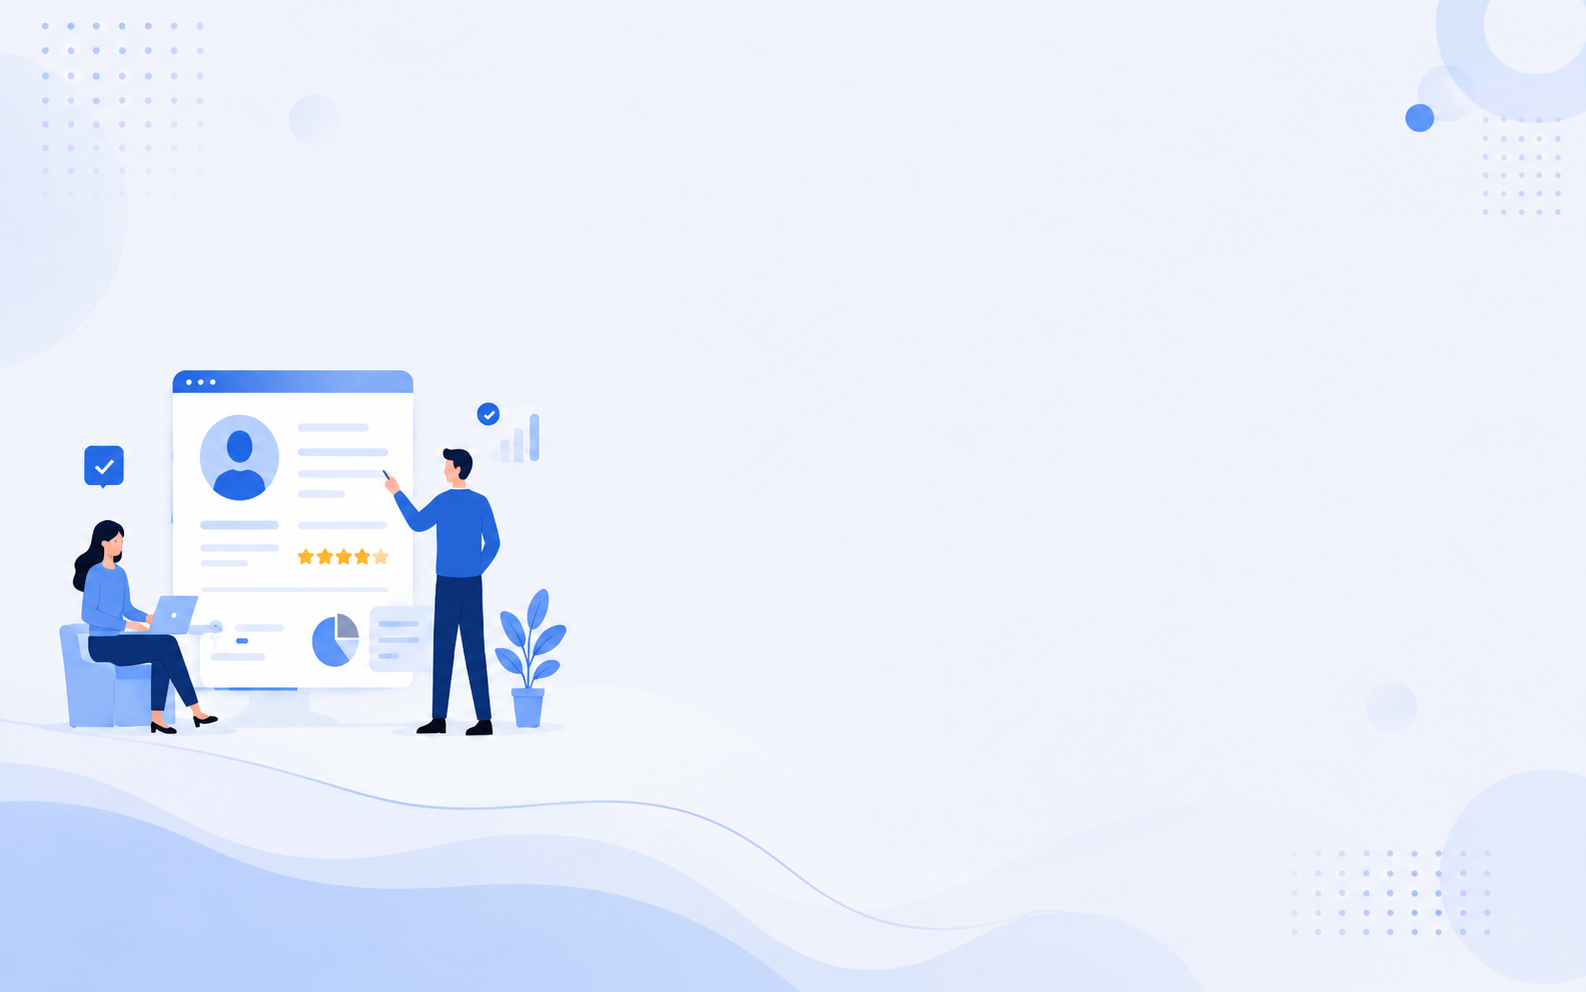
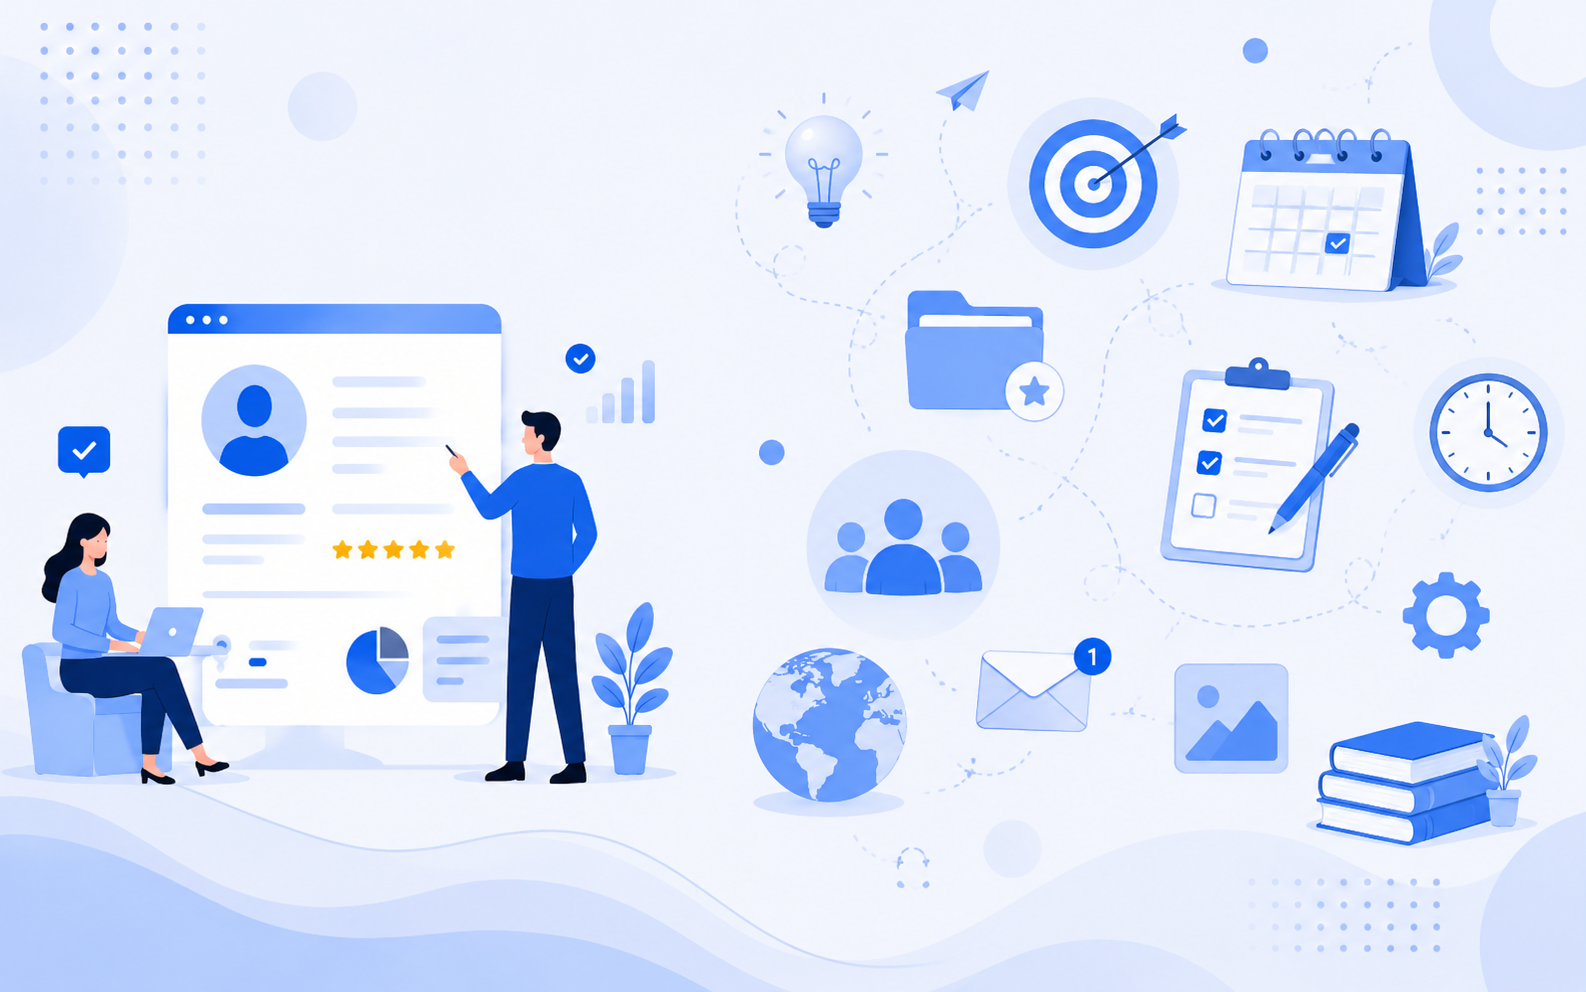
commit

diff --git a/assets/js/projectDetailLayout.js b/assets/js/projectDetailLayout.js
@@ -1687,7 +1687,7 @@ function canEditProjectDetail() {
 
 function canViewProjectTask() {
   const role = getCurrentUserRoleLower();
-  return role === "employee" || role === "project_manager" || role === "hr_manager";
+  return role === "employee" || role === "project_manager";
 }
 
 function canManageProjectEmployees() {
